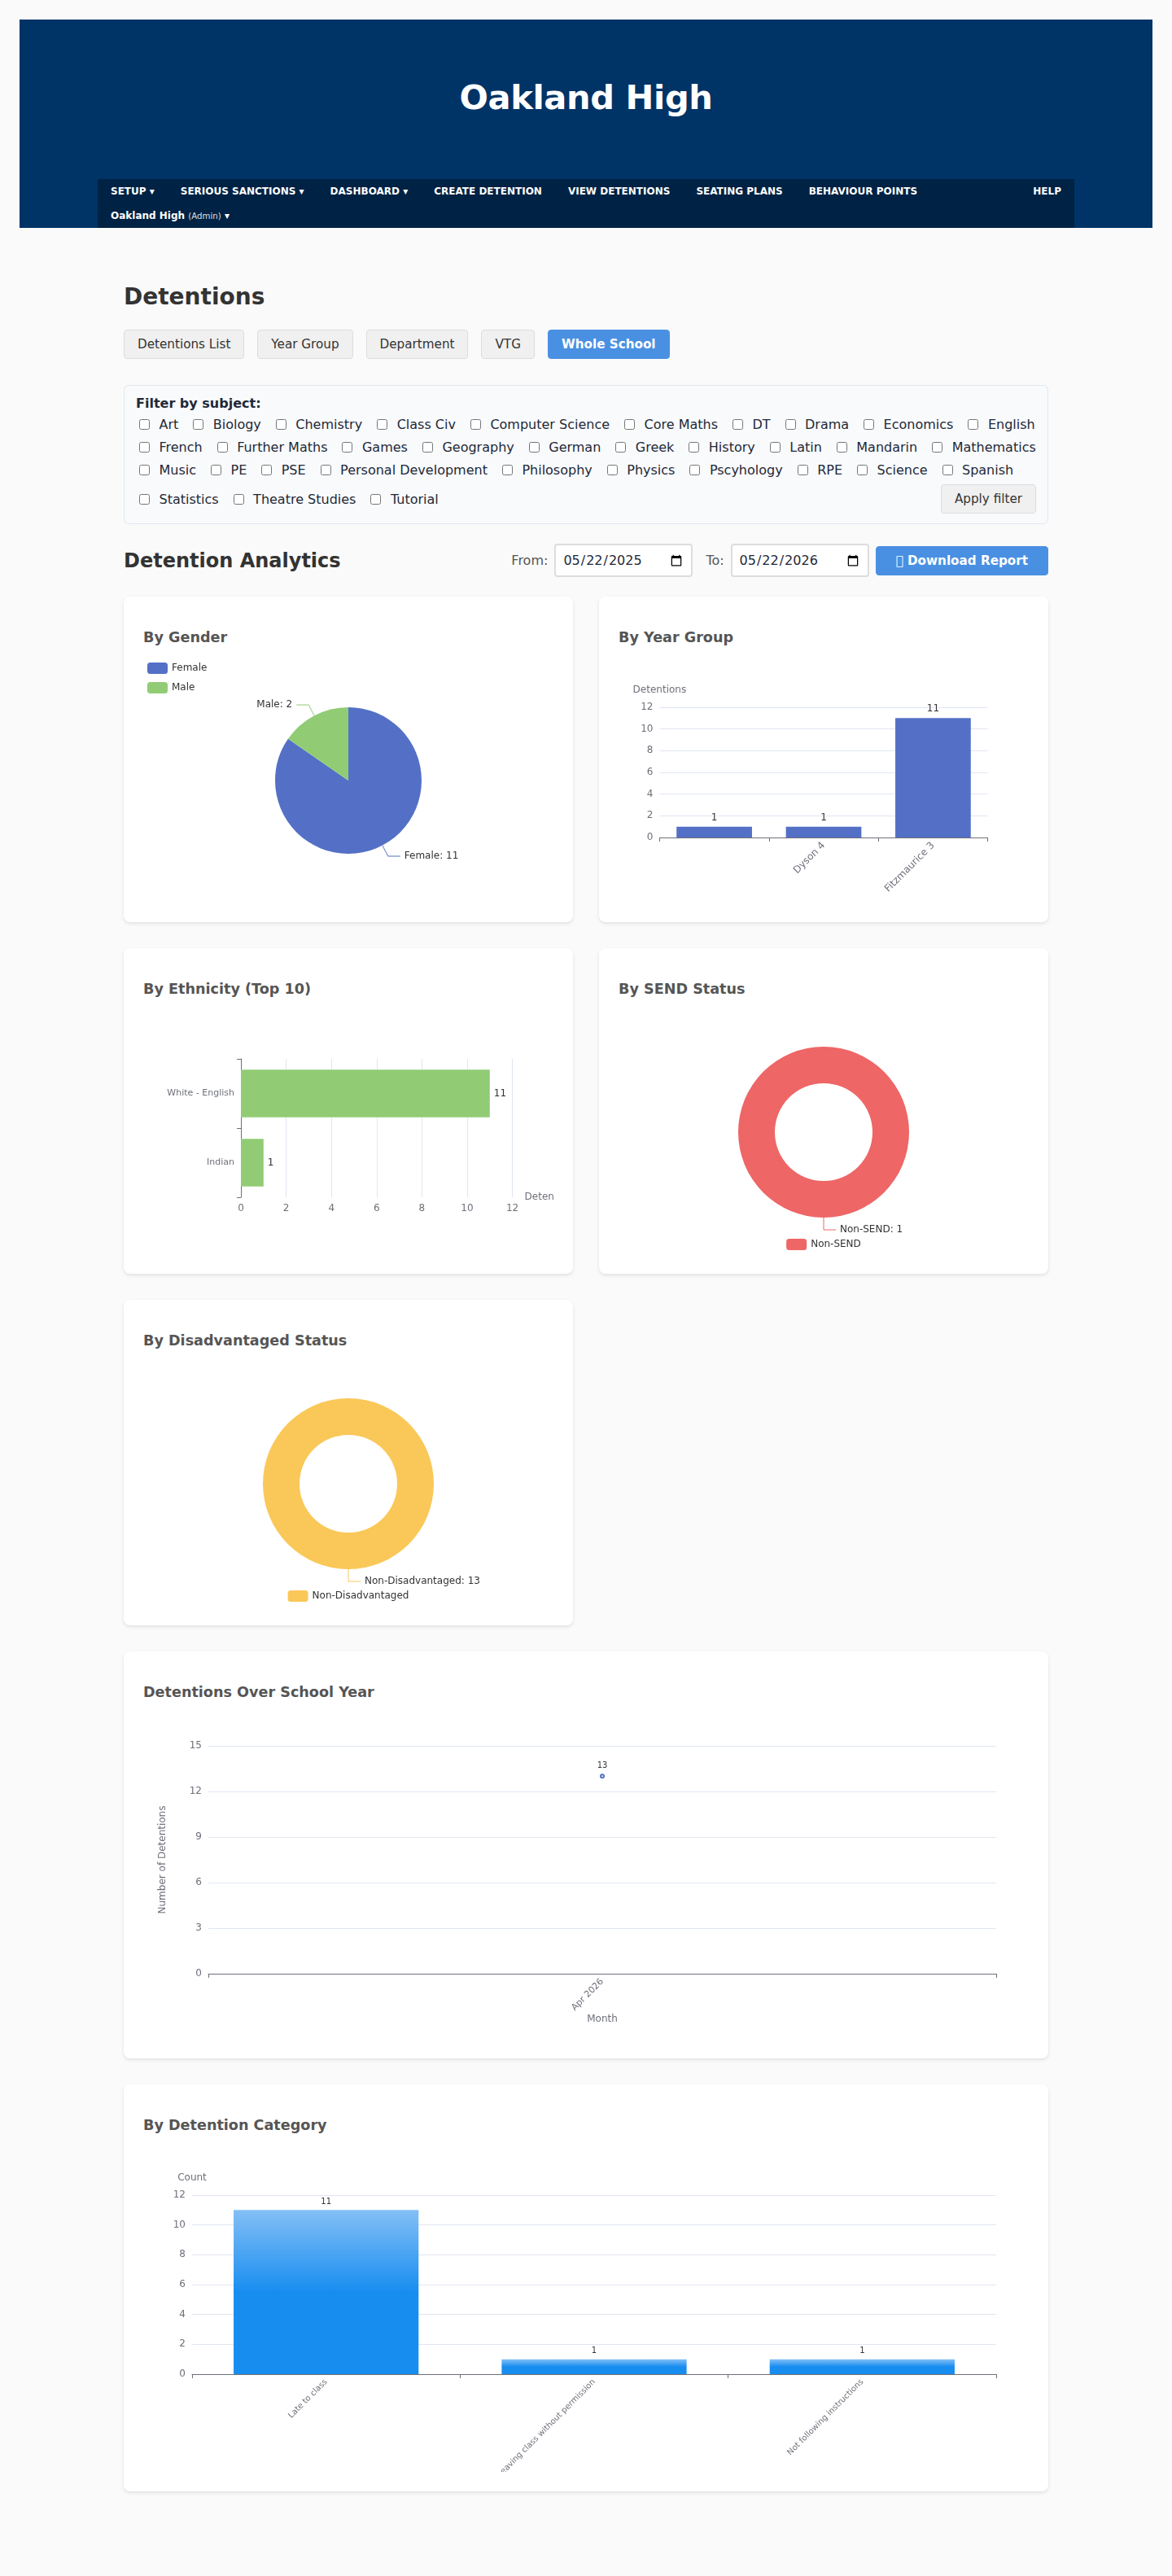
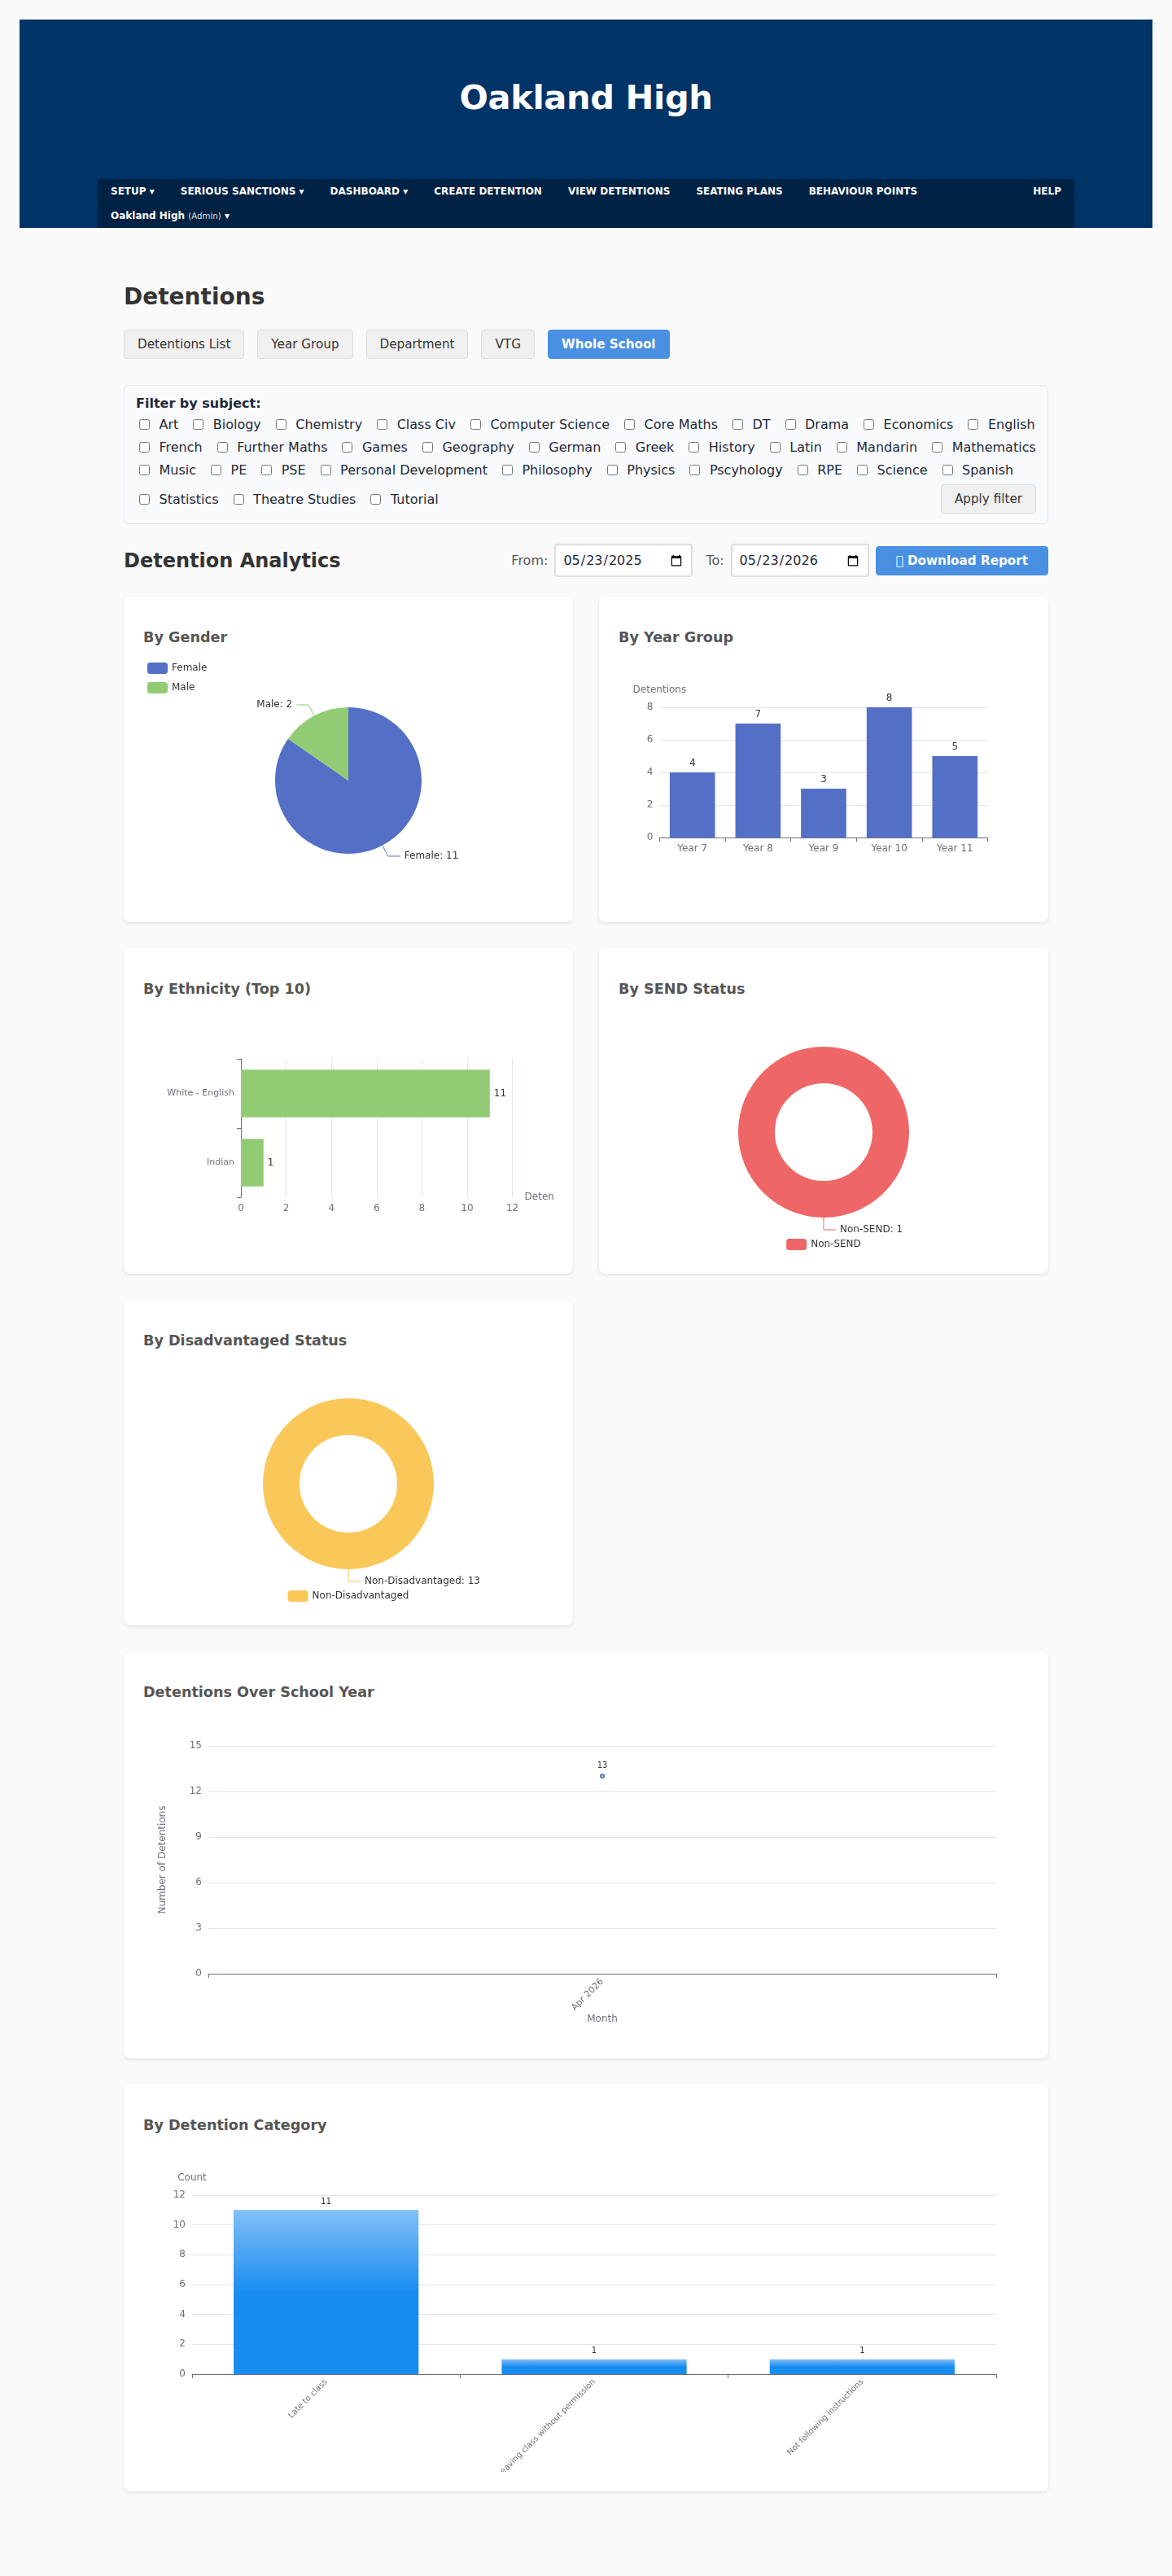
Analytics: anonymise By Year Group chart; reuse hero crop in analytics section
Override the ECharts series for #year-group-chart with Year 7-11
labels (was leaking real KES VTG names — Dyson 4, Fitzmaurice 3 —
because the dev data lacks year_group on detentions). Analytics
section now uses the same 4-chart crop as the hero.

Changed region(s): [[0.5625, 0.2477, 0.8438, 0.3406]]

diff --git a/index.html b/index.html
@@ -230,7 +230,7 @@
       </ul>
     </div>
     <figure class="split-shot">
-      <img src="assets/analytics.png" alt="Whole-school detention analytics with charts broken down by year group, ethnicity, SEND status and category">
+      <img src="assets/hero.png" alt="Whole-school detention analytics with charts broken down by gender, year group, ethnicity and SEND status">
       <figcaption>Whole School view — detentions broken down by year, ethnicity, SEND, disadvantaged status and category.</figcaption>
     </figure>
   </div>

diff --git a/take_screenshots.py b/take_screenshots.py
@@ -130,6 +130,23 @@ SP_SEED_JS = r"""() => {
   }
 }"""
 
+ANALYTICS_ANON_JS = r"""() => {
+  // The "By Year Group" chart on /teachers/detentions?view=whole_school
+  // falls back to VTG names (Dyson 4, Fitzmaurice 3) when year_group isn't set.
+  // Replace it with anonymous Year 7..11 labels via the ECharts API.
+  if (typeof echarts === 'undefined') return;
+  const el = document.getElementById('year-group-chart');
+  if (!el) return;
+  const chart = echarts.getInstanceByDom(el);
+  if (!chart) return;
+  const newCats = ['Year 7', 'Year 8', 'Year 9', 'Year 10', 'Year 11'];
+  const newVals = [4, 7, 3, 8, 5];
+  chart.setOption({
+    xAxis: { type: 'category', data: newCats, axisLabel: { rotate: 0, interval: 0 } },
+    series: [{ type: 'bar', data: newVals, label: { show: true, position: 'top' } }]
+  });
+}"""
+
 STUDENTS_SEED_JS = r"""() => {
   // Replace year-group counts with ~200 per year (Years 7-11, total 1010)
   const counts = {'Year 7': 204, 'Year 8': 198, 'Year 9': 202, 'Year 10': 207, 'Year 11': 199};
@@ -233,6 +250,9 @@ def main():
                     page.wait_for_timeout(300)
                 elif name == "students":
                     page.evaluate(STUDENTS_SEED_JS)
+                    page.wait_for_timeout(500)
+                elif name == "analytics":
+                    page.evaluate(ANALYTICS_ANON_JS)
                     page.wait_for_timeout(500)
                 # Replace school header logo with a banner that matches the header navy
                 page.evaluate(r"""() => {